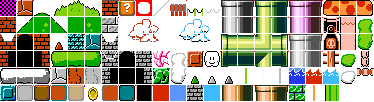
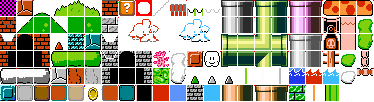
Replace underwater block and coral.

Changed region(s): [[0.4118, 0.5, 0.4706, 0.8235]]

diff --git a/README.md b/README.md
@@ -60,6 +60,11 @@ Modified from Square Block Textures by etqws3
 https://opengameart.org/content/square-block-textures  
 License: CC0
 
+Underwater block and coral
+Modified from Monkey Lad in Magical Planet by surt
+https://opengameart.org/content/monkey-lad-in-magical-planet
+License: CC0
+
 Sounds
 
 overworld.ogg and overworld-fast.ogg (MainTheme.wav)  
